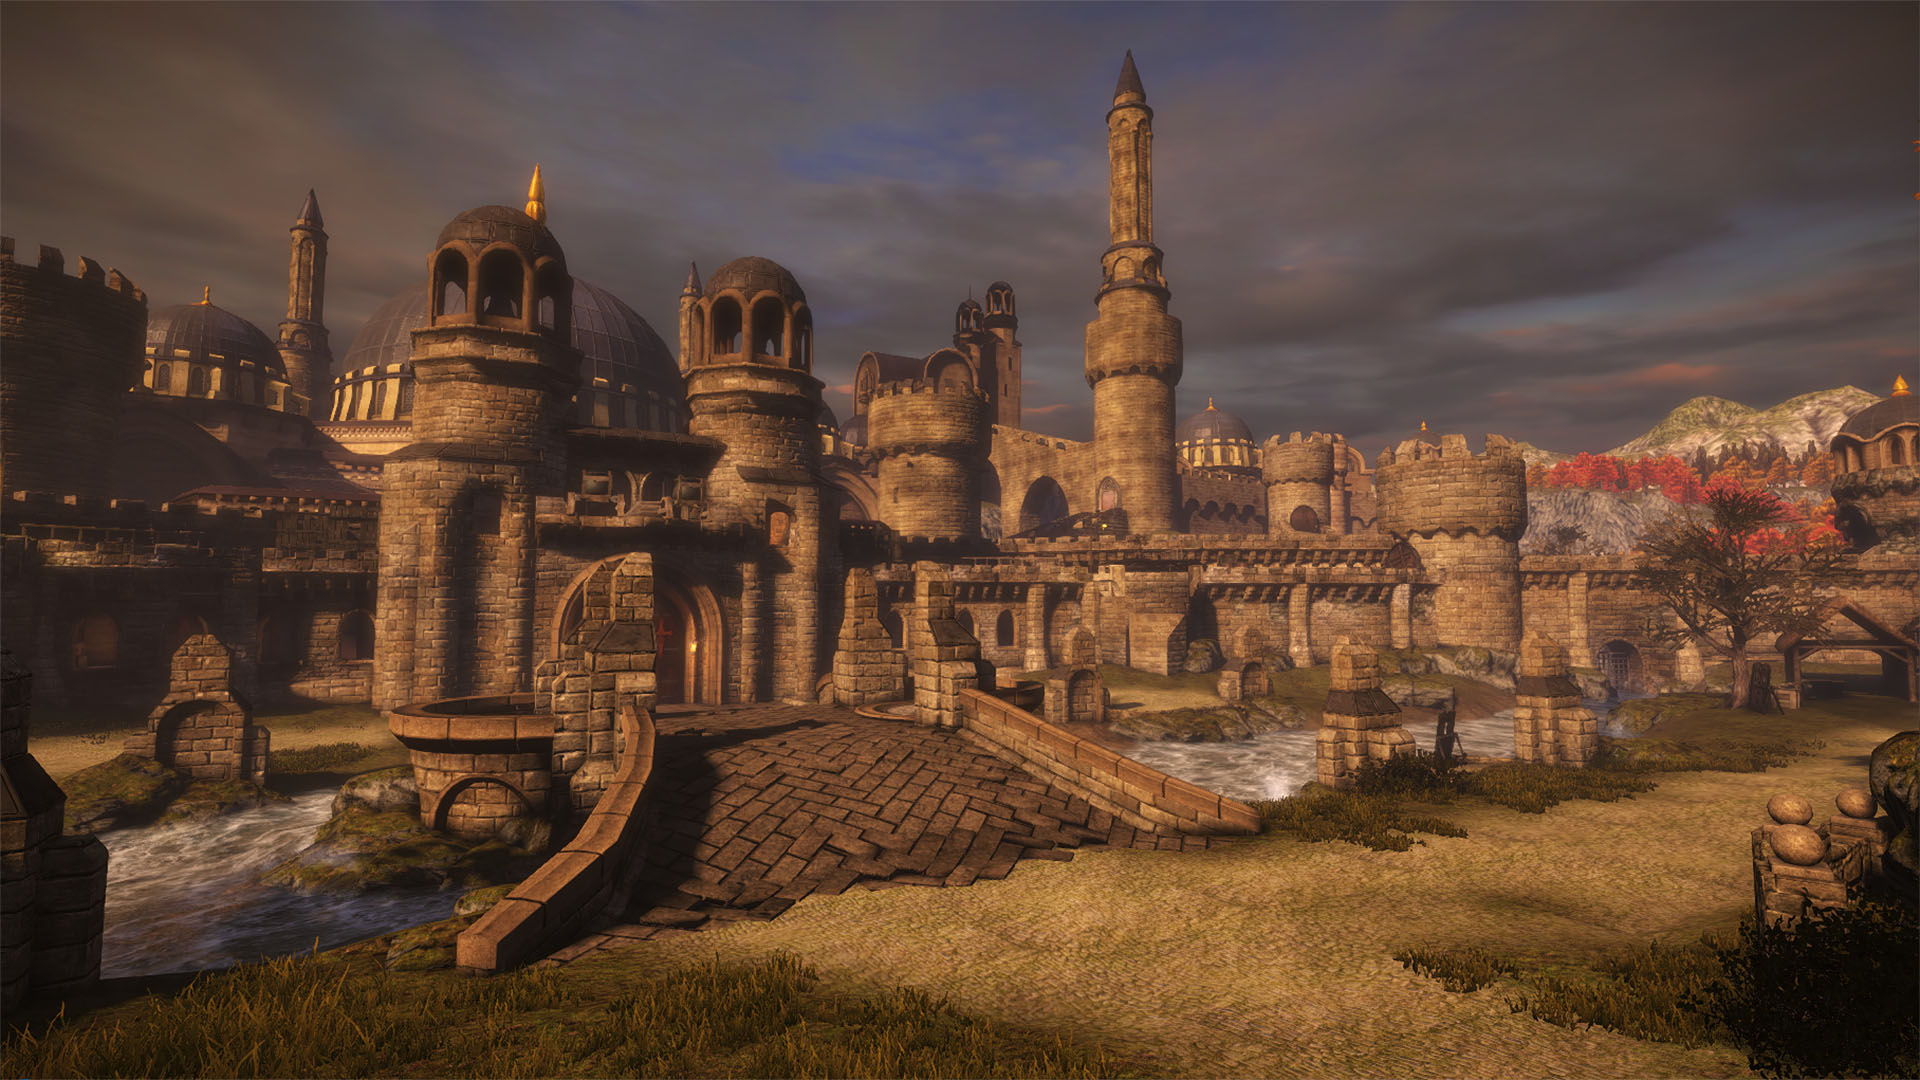
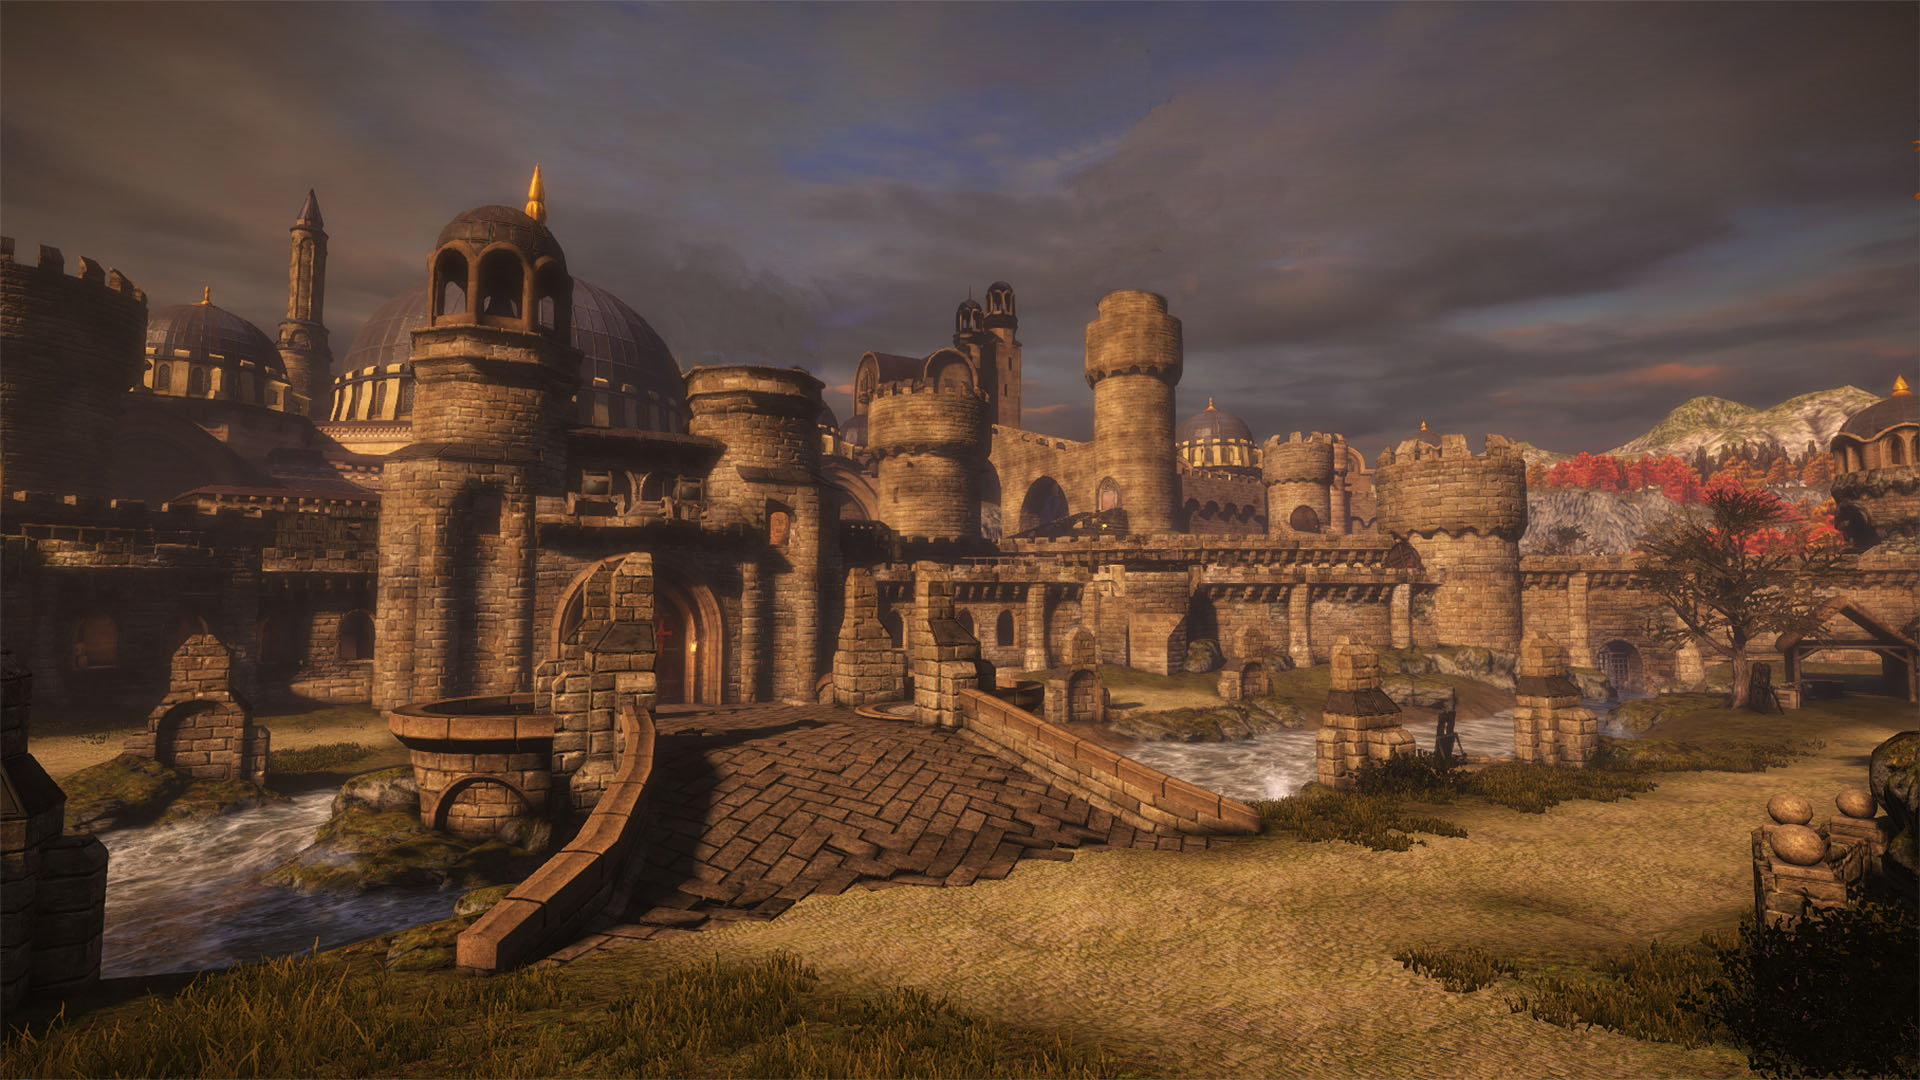
firstPage animation rework. Add like button to first page

Changed region(s): [[0.5625, 0.0611, 0.625, 0.275], [0.3438, 0.2139, 0.4375, 0.3667]]

diff --git a/client/templates/firstPage/firstPage.js b/client/templates/firstPage/firstPage.js
@@ -1,56 +1,63 @@
-Template.firstPage.helpers({
-
-});
-
-
-Template.firstPage.events({
+Template.firstPage.onRendered(function(){
 	// hide everything
-	'load #secTower': function(){
-		$('#photoBook, #credit,#enter').hide();
-	},
-	// hide and show photobook
-	'mouseleave #secTower': function(){
-		$('#secTower').height('100px');
-		$('#secTower').css('margin-left','452px');
-		$('#secTower').css('margin-top','169px');
-		$('#photoBook').hide();
-	},
+	$('#photoBook, #credit,#enter').hide();
 
-	'mouseenter #secTower':function(){
-		$('#secTower').height('130px');
-		$('#secTower').css('margin-left','440px');
-		$('#secTower').css('margin-top','145px');
-		$('#photoBook').show();
-	},
-	// hide and show credit banner
-	'mouseleave #lighthouse': function(){
-		$('#lighthouse').height('220px');
-		$('#lighthouse').css('margin-left','703px');
-		$('#lighthouse').css('margin-top','10px');
-		$('#credit').hide();
-	},
+	// animation for the second tower
+	$("#secTower").css({"margin-top":"-100px"});
+	$("#secTower").animate({marginTop:"169px"},2000, function(){
+		$("#secTower").hover(
+			function(){
+				$('#secTower').height('130px');
+				$('#secTower').css('margin-left','440px');
+				$('#secTower').css('margin-top','145px');
+				$('#photoBook').show();
+			},function(){
+				$('#secTower').height('100px');
+				$('#secTower').css('margin-left','452px');
+				$('#secTower').css('margin-top','169px');
+				$('#photoBook').hide();
+			});
+	});
 
-	'mouseenter #lighthouse':function(){
-		$('#lighthouse').height('250px');
-		$('#lighthouse').css('margin-left','695px');
-		$('#lighthouse').css('margin-top','-15px');
-		$('#credit').show();
-	},
+	// animation for the lighthouse
+	$("#lighthouse").css({"margin-top":"-200px"});
+	$("#lighthouse").animate({marginTop:"10px"},2000, function(){
+		$("#lighthouse").hover(
+			function(){
+				$('#lighthouse').height('250px');
+				$('#lighthouse').css('margin-left','695px');
+				$('#lighthouse').css('margin-top','-15px');
+				$('#credit').show();
+			},function(){
+				$('#lighthouse').height('220px');
+				$('#lighthouse').css('margin-left','703px');
+				$('#lighthouse').css('margin-top','10px');
+				$('#credit').hide();
+			});
+	});
 
-	// hide and show enter sign
-	'mouseleave #knight': function(){
-		$('#knight').height('100px');
-			$('#knight').css('margin-left','475px');
-			$('#knight').css('margin-top','415px');
-		$('#enter').hide();
-	},
+	// animation for the knight
+	$("#knight").css({"margin-left":"450px","margin-top":"450px", "height":"0px"});
+	$("#knight").animate({marginTop:"415px", marginLeft:"475px", height:"100px"},2000, function(){
+		$("#knight").hover(
+			function(){
+				$('#knight').height('120px');
+				$('#knight').css('margin-left','470px');
+				$('#knight').css('margin-top','395px');
+				$('#enter').show();
+			},function(){
+				$('#knight').height('100px');
+				$('#knight').css('margin-left','475px');
+				$('#knight').css('margin-top','415px');
+				$('#enter').hide();
+			});
+	});
 
-	'mouseenter #knight':function(){
-		$('#knight').height('120px');
-			$('#knight').css('margin-left','470px');
-			$('#knight').css('margin-top','395px');
-		$('#enter').show();
-	}
-
+	// facebook sdk stuff
+	 try {
+        FB.XFBML.parse();
+    }catch(e) {}  
 
 });
+
+

diff --git a/client/templates/firstPage/firstPage.html b/client/templates/firstPage/firstPage.html
@@ -1,9 +1,14 @@
 <template  name="firstPage" >
 	<div id="firstPageBody">
+
+	<!-- facebook like and share button -->
+			<div class="fb-like" data-href="castledefence.meteor.com" data-layout="standard" data-action="like" data-show-faces="true" data-share="true" style="position:absolute;width:300px;margin-top:30px;"></div>
+		
 	<!-- the div for light house -->
 		<div>
 			<img src="images/firstPage/lightHouse.png" id="lighthouse">
 			<img src="images/firstPage/credit.png"  id="credit">
+			
 		</div>
 		<!-- the div for second tower -->
 		<div>
@@ -19,5 +24,7 @@
 			<a href="{{pathFor 'gamePage'}}"><img src="../images/firstPage/knight.png" id="knight"></a>
 			<img src="images/firstPage/enter.png" id="enter">
 		</div>
+
+		
 	</div>
 </template>

diff --git a/client/templates/gamePage/gamePage.html b/client/templates/gamePage/gamePage.html
@@ -12,6 +12,7 @@
 				  <li role="presentation"><a href="{{pathFor 'feedback'}}">Feedback</a></li>
 				  {{/if}}
 				  <li role="presentation"><a href="#">{{> loginButtons}}</a></li>
+				  <!-- facebook like and share button -->
 				  <li role="presentation" style="width:300px;">
 				  	<a href="#">
 				  		<div class="fb-like" data-href="castledefence.meteor.com" data-layout="standard" data-action="like" data-show-faces="false" data-share="true"></div>
